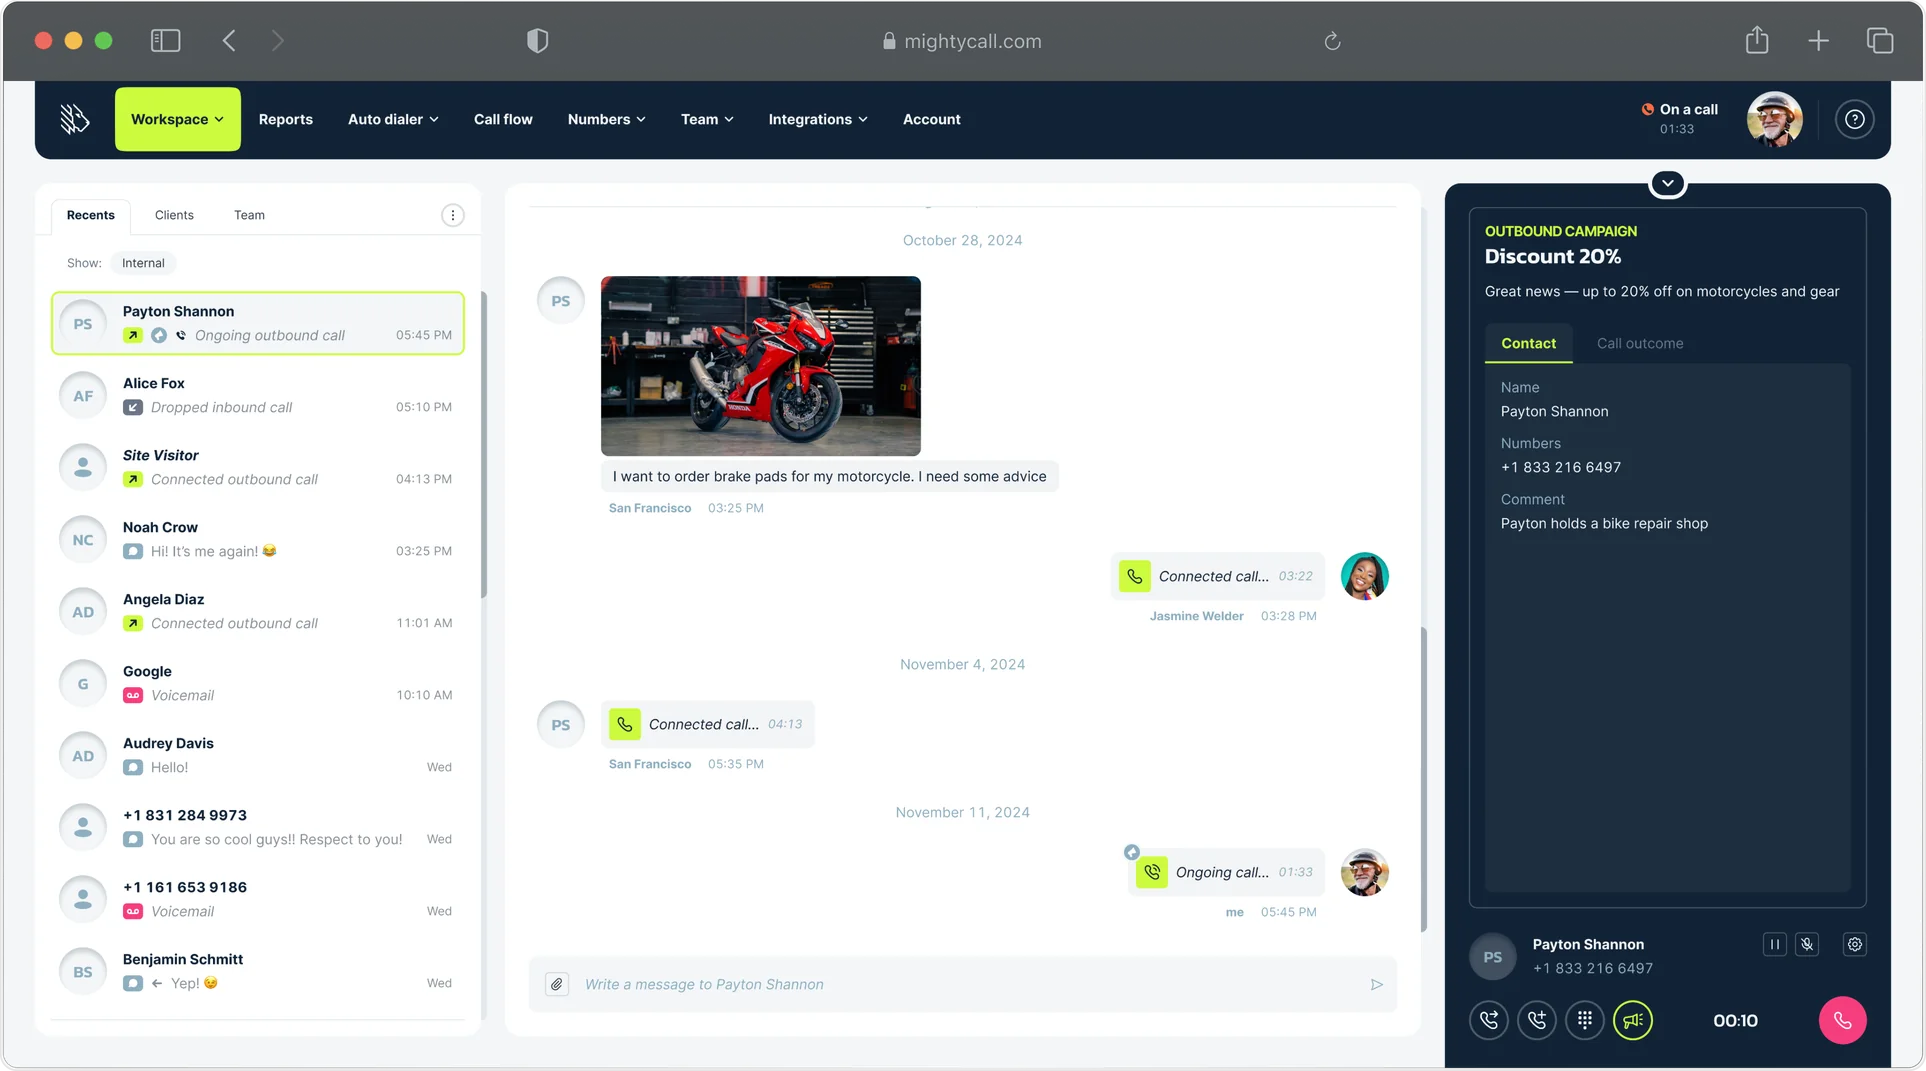
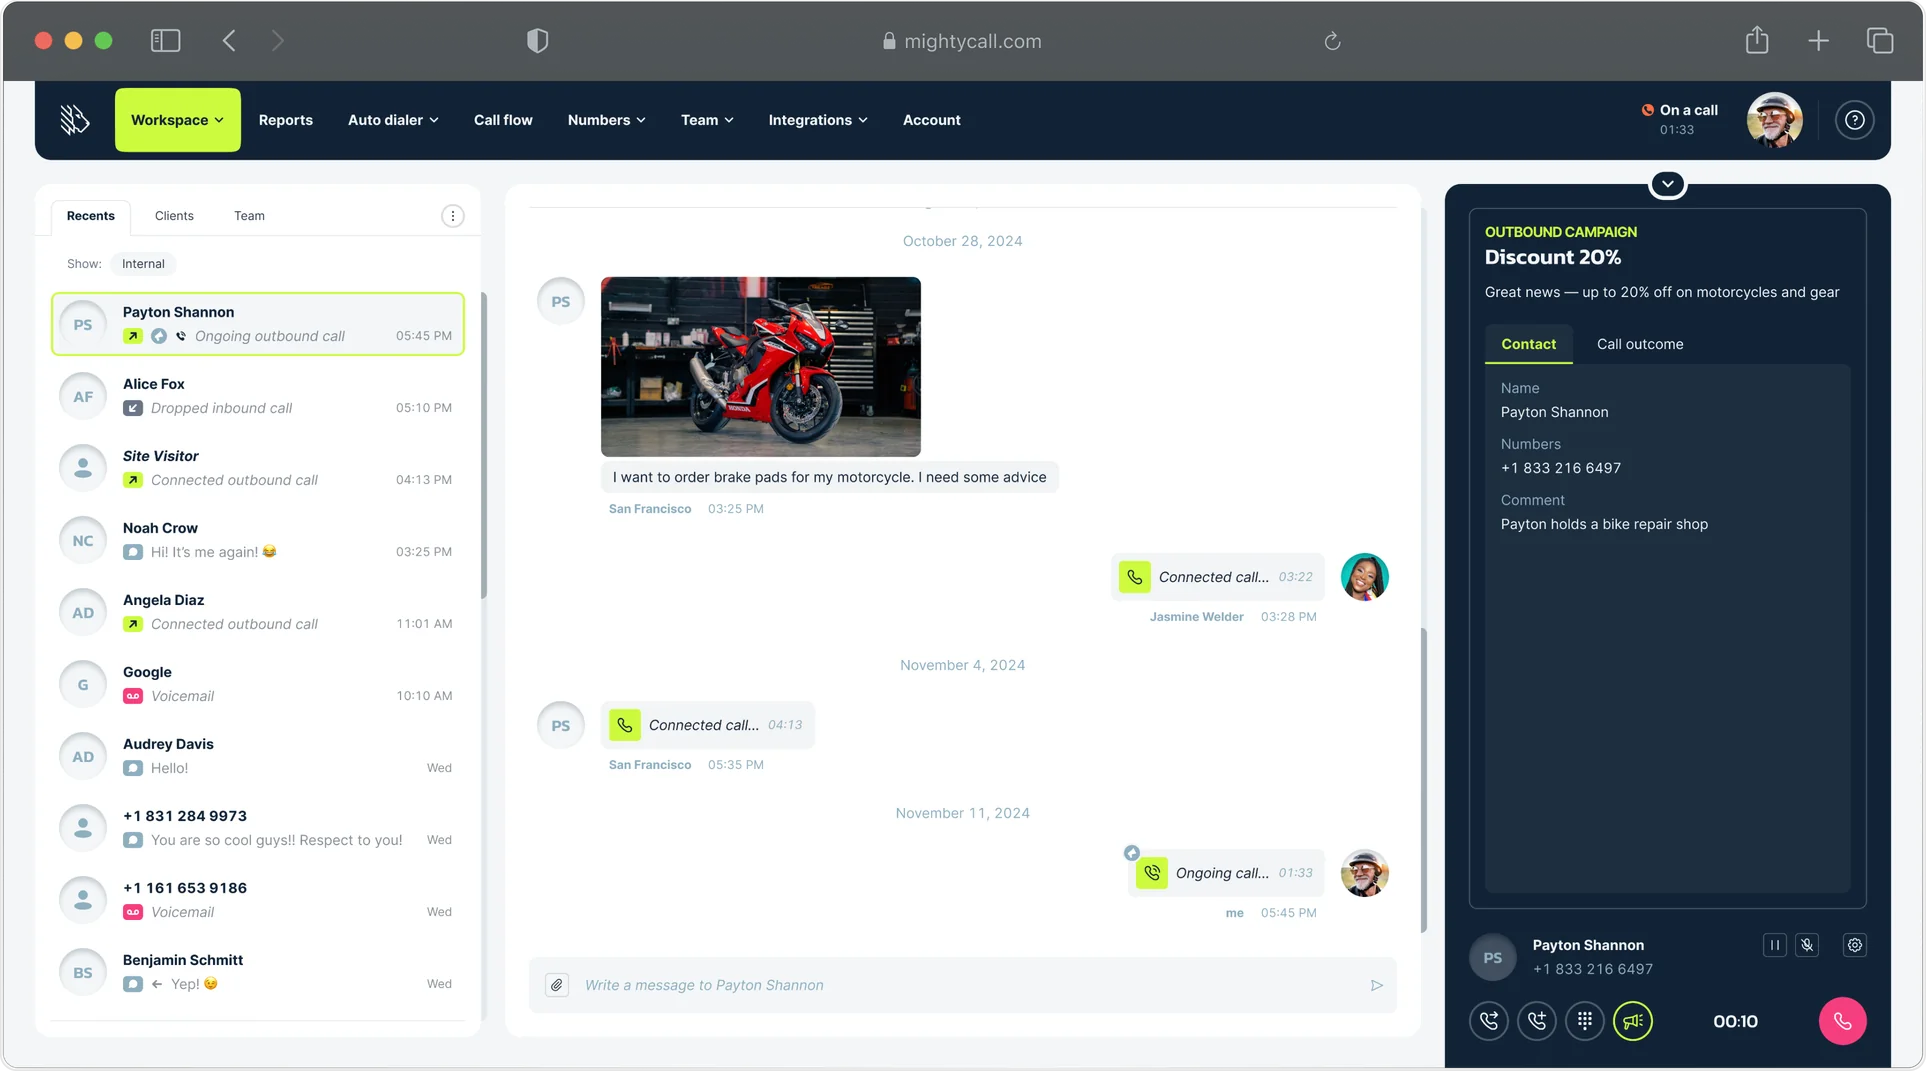
Кейс: исправленные скриншоты разговора оператора

diff --git a/cases/predictive-dialer/index.html b/cases/predictive-dialer/index.html
@@ -226,8 +226,8 @@
           </figure>
           <figure class="figure gallery__slide">
             <button class="figure__stage figure__zoom" type="button" data-zoom="fit" aria-label="Открыть картинку на весь экран">
-              <img class="theme-light" src="img/on-call.webp?v=3" alt="Рабочее место оператора во&nbsp;время разговора с&nbsp;клиентом из&nbsp;кампании, справа данные контакта и&nbsp;вкладка результата звонка" width="1926" height="1071" loading="lazy" decoding="async">
-              <img class="theme-dark" src="img/on-call-dark.webp?v=3" alt="Рабочее место оператора во&nbsp;время разговора с&nbsp;клиентом из&nbsp;кампании, справа данные контакта и&nbsp;вкладка результата звонка" width="1926" height="1071" loading="lazy" decoding="async">
+              <img class="theme-light" src="img/on-call.webp?v=4" alt="Рабочее место оператора во&nbsp;время разговора с&nbsp;клиентом из&nbsp;кампании, справа данные контакта и&nbsp;вкладка результата звонка" width="1926" height="1071" loading="lazy" decoding="async">
+              <img class="theme-dark" src="img/on-call-dark.webp?v=4" alt="Рабочее место оператора во&nbsp;время разговора с&nbsp;клиентом из&nbsp;кампании, справа данные контакта и&nbsp;вкладка результата звонка" width="1926" height="1071" loading="lazy" decoding="async">
             </button>
             <figcaption class="text-s">Во&nbsp;время разговора данные контакта остаются на&nbsp;экране, рядом вкладка с&nbsp;результатом&nbsp;звонка</figcaption>
           </figure>
